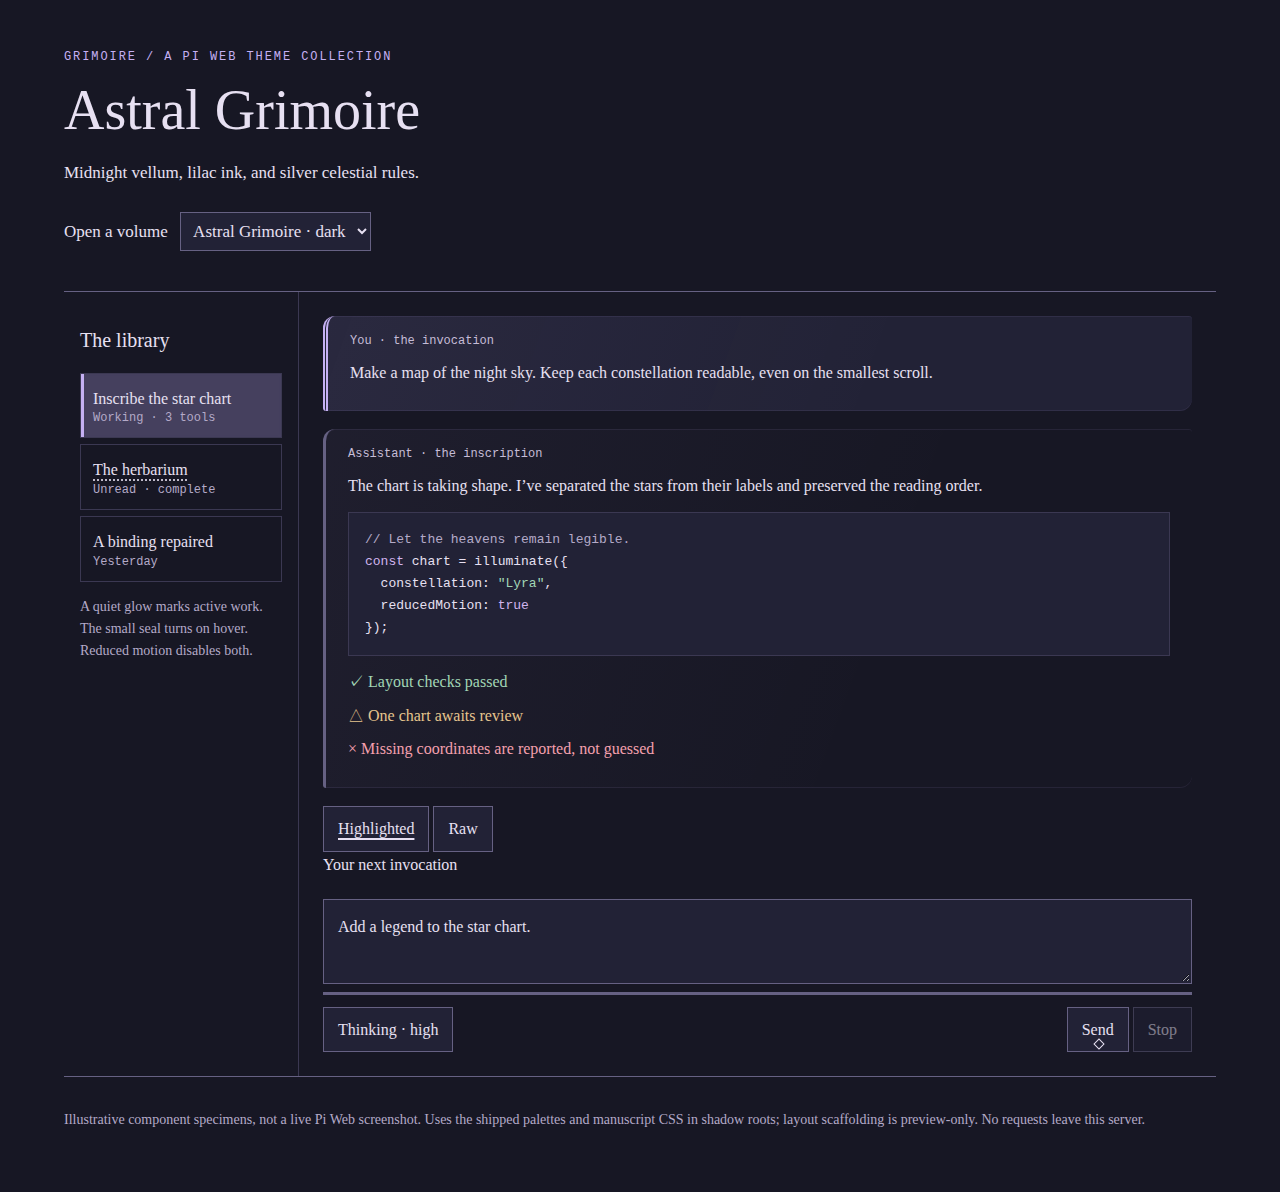
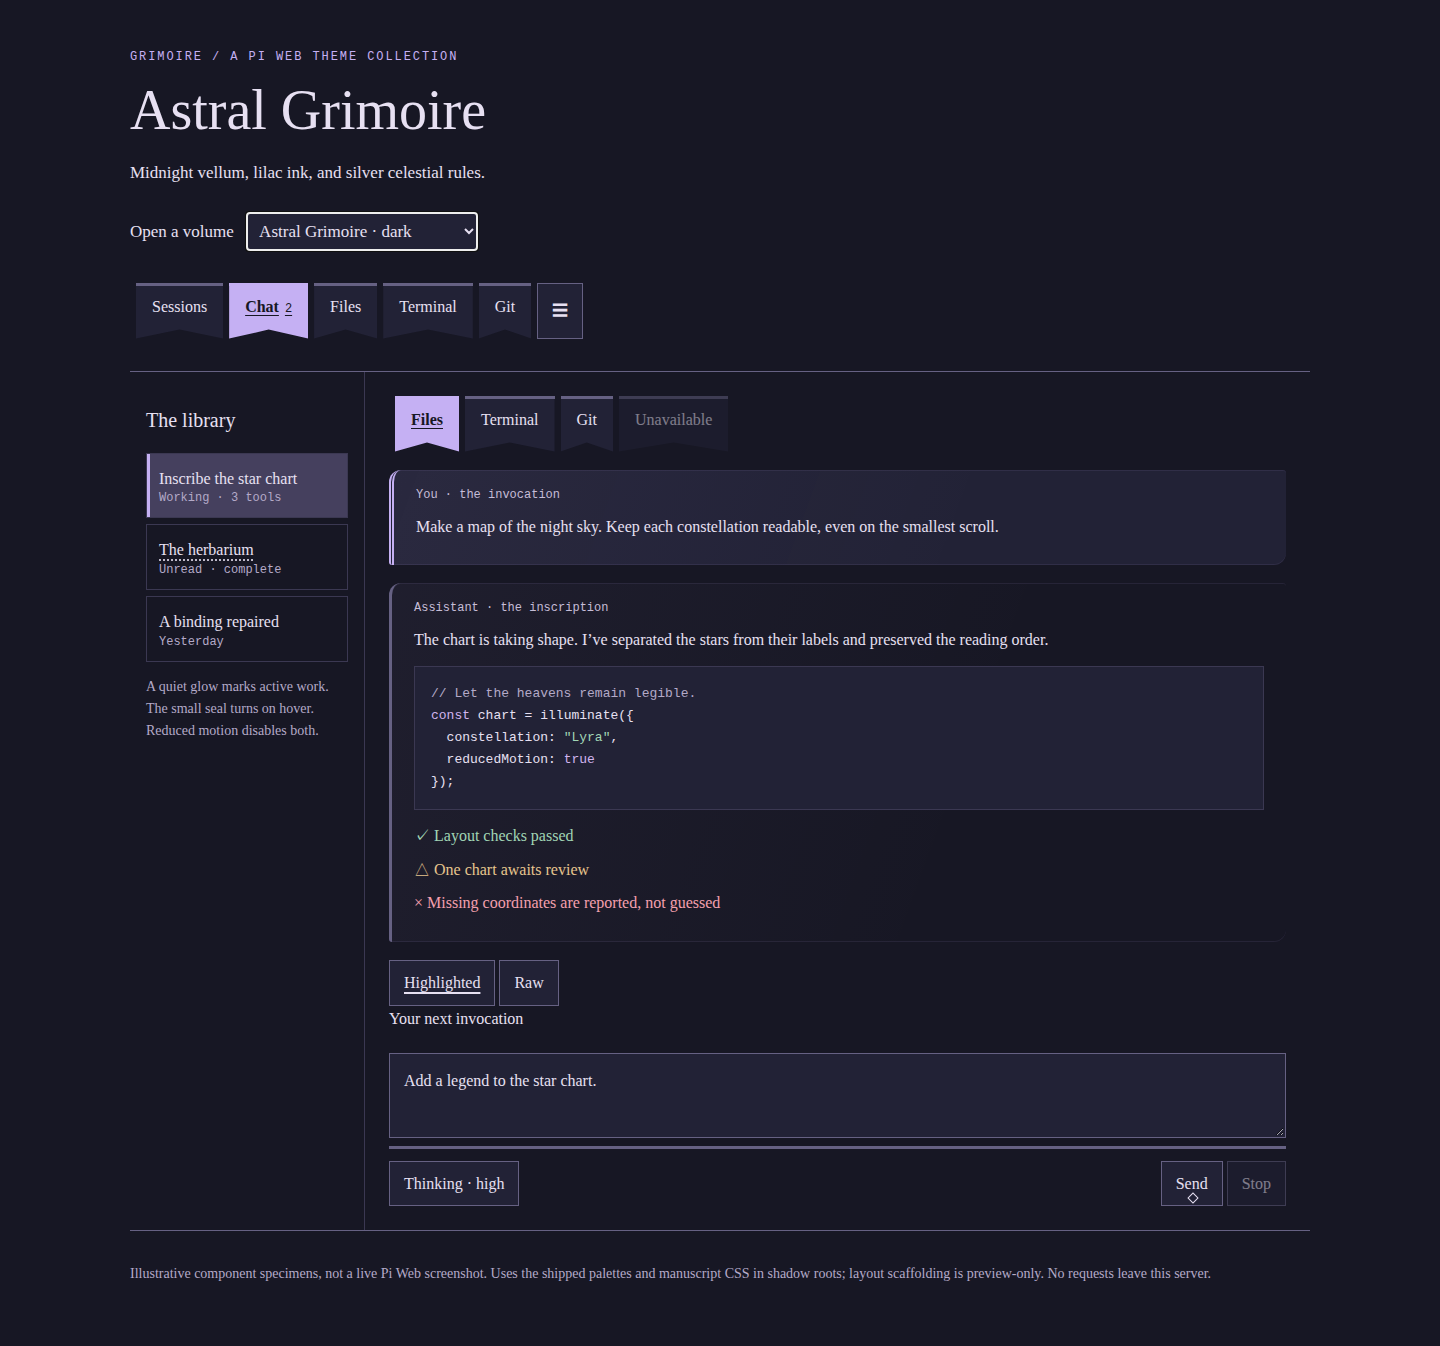
Style panel navigation as ribbon bookmarks across all themes

Changed region(s): [[0.0625, 0.031, 0.9375, 0.9002], [0.0625, 0.9312, 0.875, 0.9622]]

diff --git a/assets/manuscript.css b/assets/manuscript.css
@@ -58,6 +58,70 @@
   text-decoration: underline dotted;
   text-underline-offset: 3px;
 }
+/* Panel bookmarks. Shell hosts are version-sensitive; do not style renderer
+   choices, navigation-menu triggers, or panel-collapse controls as ribbons.
+   Only the decorative backing is clipped: labels and focus stay rectangular. */
+:host(app-mobile-main-tabs) .ui-tabs,
+:host(workspace-panel) .ui-tabs {
+  gap: 6px;
+  padding-inline: 6px;
+}
+:host(app-mobile-main-tabs) .ui-tabs > button.ui-tab:not([data-navigation-trigger]),
+:host(workspace-panel) .ui-tabs > button.ui-tab:not([data-navigation-trigger]) {
+  --grimoire-ribbon-fill: var(--pi-surface);
+  position: relative;
+  isolation: isolate;
+  min-block-size: 56px;
+  min-inline-size: 44px;
+  padding: 8px 16px 18px;
+  border: 0;
+  border-block-start: 3px solid var(--pi-border);
+  border-radius: 0;
+  background: transparent;
+  color: var(--pi-text);
+  box-shadow: none;
+  font-family: var(--pi-font);
+}
+:host(app-mobile-main-tabs) .ui-tabs > button.ui-tab:not([data-navigation-trigger])::before,
+:host(workspace-panel) .ui-tabs > button.ui-tab:not([data-navigation-trigger])::before {
+  content: "";
+  position: absolute;
+  z-index: -1;
+  inset: 0;
+  background: var(--grimoire-ribbon-fill);
+  clip-path: polygon(0 0, 100% 0, 100% 100%, 50% calc(100% - 9px), 0 100%);
+  pointer-events: none;
+}
+:host(app-mobile-main-tabs) .ui-tabs > button.ui-tab:not([data-navigation-trigger]):hover:not(:disabled, .selected, [aria-pressed="true"], [aria-current="page"]),
+:host(workspace-panel) .ui-tabs > button.ui-tab:not([data-navigation-trigger]):hover:not(:disabled, .selected, [aria-pressed="true"], [aria-current="page"]) {
+  --grimoire-ribbon-fill: var(--pi-surface-hover);
+}
+:host(app-mobile-main-tabs) .ui-tabs > button.ui-tab:not([data-navigation-trigger]):is(.selected, [aria-pressed="true"], [aria-current="page"]),
+:host(workspace-panel) .ui-tabs > button.ui-tab:not([data-navigation-trigger]):is(.selected, [aria-pressed="true"], [aria-current="page"]) {
+  --grimoire-ribbon-fill: var(--pi-accent);
+  color: var(--pi-bg);
+  border-block-start-color: var(--pi-accent);
+  font-weight: 700;
+  text-decoration: underline;
+  text-underline-offset: 3px;
+}
+:host(app-mobile-main-tabs) .ui-tabs > button.ui-tab:not([data-navigation-trigger]):focus-visible,
+:host(workspace-panel) .ui-tabs > button.ui-tab:not([data-navigation-trigger]):focus-visible {
+  outline: 2px solid currentColor;
+  outline-offset: -4px;
+}
+@media (forced-colors: active) {
+  :host(app-mobile-main-tabs) .ui-tabs > button.ui-tab:not([data-navigation-trigger]),
+  :host(workspace-panel) .ui-tabs > button.ui-tab:not([data-navigation-trigger]) {
+    border: 1px solid ButtonText;
+    border-block-start-width: 3px;
+    color: ButtonText;
+  }
+  :host(app-mobile-main-tabs) .ui-tabs > button.ui-tab:not([data-navigation-trigger])::before,
+  :host(workspace-panel) .ui-tabs > button.ui-tab:not([data-navigation-trigger])::before {
+    background: Canvas;
+  }
+}
 /* A brief illumination when a session becomes busy, never an endless pulse.
    Only shadow changes: no moving text, scroll shifts, overlays or click targets. */
 @media (prefers-reduced-motion: no-preference) {

diff --git a/previews/gallery.js b/previews/gallery.js
@@ -20,8 +20,14 @@ const base = `@layer pi-web-base {
   .ui-composer-toolbar { display: flex; flex-wrap: wrap; justify-content: space-between; gap: 8px; padding-top: 12px; }
   textarea { width: 100%; resize: vertical; min-height: 85px; padding: 14px; margin-top: 22px; background: var(--pi-surface); border: 1px solid var(--pi-border); }
   [data-ui-context="content-views"] { display: flex; gap: 4px; }
+  .ui-tabs { display: flex; overflow-x: auto; overflow-y: hidden; min-width: 0; }
+  .ui-tab { flex: 0 0 auto; white-space: nowrap; }
+  .tab-badge { font: 12px var(--pi-mono); margin-inline-start: 6px; }
+  .ui-tab.selected { background: var(--pi-selection-bg); }
 }`;
 const templates = {
+  'app-mobile-main-tabs': `<nav class="mobile-tabs ui-tabs ui-tabs--primary" aria-label="Main panel specimens"><button class="ui-button ui-tab" aria-pressed="false">Sessions</button><button class="ui-button ui-tab selected" aria-pressed="true">Chat<span class="tab-badge">2</span></button><button class="ui-button ui-tab" aria-pressed="false">Files</button><button class="ui-button ui-tab" aria-pressed="false">Terminal</button><button class="ui-button ui-tab" aria-pressed="false">Git</button><button class="ui-button ui-tab" data-navigation-trigger aria-label="Navigation">☰</button></nav>`,
+  'workspace-panel': `<div class="ui-tabs ui-tabs--primary" aria-label="Workspace panel specimens"><button class="ui-button ui-tab selected" aria-pressed="true">Files</button><button class="ui-button ui-tab" aria-pressed="false">Terminal</button><button class="ui-button ui-tab" aria-pressed="false">Git</button><button class="ui-button ui-tab" disabled aria-pressed="false">Unavailable</button></div>`,
   'session-list': `<div data-ui-context="sessions"><div class="ui-nav-list">
     <div class="ui-nav-row" tabindex="0" data-current="true" aria-current="true" data-busy="true"><div class="ui-nav-row-main"><div class="ui-nav-row-label">Inscribe the star chart</div><div class="ui-nav-row-meta">Working · 3 tools</div></div></div>
     <div class="ui-nav-row" tabindex="0" data-current="false" data-unread="true"><div class="ui-nav-row-main"><div class="ui-nav-row-label">The herbarium</div><div class="ui-nav-row-meta">Unread · complete</div></div></div>
@@ -41,6 +47,15 @@ for (const [tag, markup] of Object.entries(templates)) {
     constructor() {
       super();
       this.attachShadow({ mode: 'open' }).innerHTML = `<style>${base}</style><link rel="stylesheet" href="../assets/manuscript.css">${markup}`;
+      // Specimen-only interaction; production navigation remains host-owned.
+      this.shadowRoot.addEventListener('click', event => {
+        const button = event.target.closest('button.ui-tab:not([data-navigation-trigger])');
+        if (!button || button.disabled) return;
+        for (const tab of this.shadowRoot.querySelectorAll('button.ui-tab:not([data-navigation-trigger])')) {
+          tab.classList.toggle('selected', tab === button);
+          tab.setAttribute('aria-pressed', String(tab === button));
+        }
+      });
     }
   });
 }

diff --git a/previews/index.html b/previews/index.html
@@ -15,9 +15,10 @@
     <p id="description">Ivory parchment, oxblood ink, and warm brass illumination.</p>
     <label>Open a volume <select id="theme"><option value="candlelit">Candlelit Folio · light</option><option value="astral">Astral Grimoire · dark</option><option value="verdant">Verdant Codex · dark</option><option value="hedgewitch">Hedgewitch’s Journal · light</option><option value="scribe">Scribe’s Spellbook · light</option><option value="forgotten">Forgotten Folio · light</option></select></label>
   </header>
+  <app-mobile-main-tabs></app-mobile-main-tabs>
   <main>
     <aside><h2>The library</h2><session-list></session-list><p class="note">A quiet glow marks active work. The small seal turns on hover. Reduced motion disables both.</p></aside>
-    <section aria-label="Conversation specimen"><chat-view></chat-view><pi-web-content-renderer></pi-web-content-renderer><prompt-editor></prompt-editor></section>
+    <section aria-label="Conversation specimen"><workspace-panel></workspace-panel><chat-view></chat-view><pi-web-content-renderer></pi-web-content-renderer><prompt-editor></prompt-editor></section>
   </main>
   <footer>Illustrative component specimens, not a live Pi Web screenshot. Uses the shipped palettes and manuscript CSS in shadow roots; layout scaffolding is preview-only. No requests leave this server.</footer>
 </body>

diff --git a/previews/gallery.css b/previews/gallery.css
@@ -1,5 +1,7 @@
 * { box-sizing: border-box; }
 body { margin: 0; padding: 36px clamp(16px, 5vw, 72px); background: var(--pi-bg); color: var(--pi-text); font: 17px/1.6 var(--pi-font); }
+app-mobile-main-tabs { display: block; max-width: 1180px; margin: 24px auto 0; }
+workspace-panel { display: block; margin-block-end: 18px; }
 header, main, footer { max-width: 1180px; margin-inline: auto; }
 h1 { font-size: clamp(32px, 5vw, 56px); font-weight: 400; line-height: 1.15; margin: 10px 0; }
 h2 { font-size: 20px; font-weight: 400; }

diff --git a/README.md b/README.md
@@ -69,6 +69,7 @@ To uninstall, first select a built-in theme, then remove the package in Settings
 
 - The original three retain their system-serif UI. The paper editions use bundled OFL handwriting fonts at 21–22px for conversation prose and a system sans-serif for controls, navigation and metadata. Code remains monospaced, and terminal geometry is unchanged. Unsupported glyphs fall back to local fonts; the handwriting fonts do not cover every writing system.
 - Static local SVG textures provide mottling, fibres and foxing across the overall app canvas as well as message surfaces. The canvas texture is softened beneath a 55% base-colour wash; messages retain stronger paper detail and worn edges. Code blocks, inputs, and controls keep solid backgrounds. Shell host selectors (`pi-web-app`, `workspace-panel`) are version-sensitive and should be rechecked on host upgrades; opaque plugin-owned panels can cover the canvas. Inset shading wears the page edges without clipping text or changing hit targets. Forced colours removes the paper effects. Font loading uses `swap`, so prose remains visible while loading.
+- All six themes render main navigation (Sessions, Chat, pinned tools) and workspace tool tabs (Files, Terminal, Git, etc.) as notched ribbon bookmarks. Active ribbons use the theme accent with contrasting text and an underline. Only the decorative backing is clipped: focus outlines, labels, badges and rectangular click targets remain intact. Narrow strips keep horizontal scrolling; navigation-menu and collapse buttons remain ordinary controls. These rules target the version-sensitive `app-mobile-main-tabs` and `workspace-panel` shell hosts, not arbitrary plugin tabs or renderer choices.
 - User messages have a double leading rule; assistant messages a single rule. Current rows and selected choices retain structural cues, not colour alone.
 - Busy sessions receive two quiet 2.4-second illuminations. Hovering the default composer action turns its small diamond seal once. Neither effect changes layout or interaction.
 - Motion is opt-in through `prefers-reduced-motion: no-preference`; reduced-motion users get static decoration. Forced-colour mode keeps borders and a current-row outline.
@@ -89,9 +90,9 @@ Optional browser fixture check (requires a separately available Playwright insta
 
 ```sh
 PLAYWRIGHT_MODULE=/absolute/path/to/playwright/index.mjs node test/browser.mjs
-# Add --capture to regenerate the three handwritten PNG previews.
+# Add --capture to regenerate all six PNG previews.
 ```
 
-This launches a temporary loopback-only static server on port 4174 and closes it afterward. It checks local font loading, message/canvas paper, solid code/control backgrounds and fonts, mobile overflow, reduced motion, forced colours, and paper removal on theme switching. `previews/` is a standalone specimen gallery, not application code. No build step or runtime dependencies.
+This launches a temporary loopback-only static server on port 4174 and closes it afterward. It checks local font loading, message/canvas paper, solid code/control backgrounds and fonts, mobile overflow, reduced motion, forced colours, and paper removal on theme switching. All six themes also exercise both bookmark strips: selection and hover, keyboard focus, minimum target sizes, horizontal scrolling, RTL, disabled controls, forced-colour cues and exclusions. The gallery tabs are interactive specimens, not navigation into the live app. `previews/` is a standalone specimen gallery, not application code. No build step or runtime dependencies.
 
 CSS, gallery, and original procedural textures are MIT licensed. Bundled fonts retain their SIL OFL 1.1 licenses and copyright notices; see [asset attribution](assets/ATTRIBUTION.md). Local delivery only; no remote repository or published package is implied.
